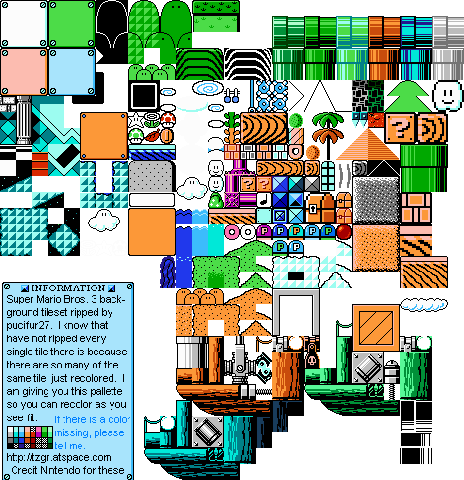
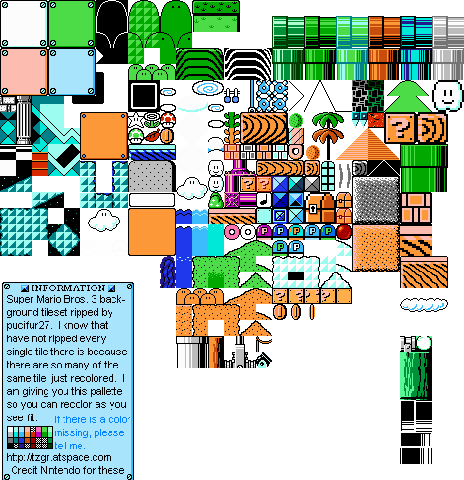
Make Coin for QuestionBlock.

Changed region(s): [[0.3017, 0.5938, 0.875, 1.0]]

diff --git a/SuperMarioBros3/Mario.cpp b/SuperMarioBros3/Mario.cpp
@@ -13,11 +13,18 @@
 
 void CMario::Update(DWORD dt, vector<LPGAMEOBJECT> *coObjects)
 {
-	DebugOut(L"%f %f \n", vx, ax);
+	//DebugOut(L"%f %f \n", vx, ax);
 	vy += ay * dt;
 	vx += ax * dt;
 
 	if (abs(vx) > abs(maxVx)) vx = maxVx;
+
+	// Stop Mario leaving the left-edge of the screen
+	if (x <= 8)
+	{
+		vx = 0;
+		x += 1;
+	}
 
 	// reset untouchable timer if untouchable time has passed
 	if (GetTickCount64() - untouchable_start > MARIO_UNTOUCHABLE_TIME) 
@@ -97,8 +104,17 @@ void CMario::OnCollisionWithGoomba(LPCOLLISIONEVENT e)
 
 void CMario::OnCollisionWithCoin(LPCOLLISIONEVENT e)
 {
-	e->obj->Delete();
-	coin++;
+	CCoin* objcoin = dynamic_cast<CCoin*>(e->obj);
+
+	if (objcoin->GetState() == COIN_STATE_NORMAL)
+	{
+		objcoin->Delete();
+		coin++;
+	}
+	else if (objcoin->GetState() == COIN_STATE_NORMAL + 1)
+	{
+
+	}
 }
 
 void CMario::OnCollisionWithPortal(LPCOLLISIONEVENT e)
@@ -233,18 +249,18 @@ int CMario::GetAniIdBig()
 			{
 				if (ax < 0)
 					aniId = ID_ANI_MARIO_BRACE_RIGHT;
-				else if (ax == MARIO_ACCEL_RUN_X)
+				else if (ax == MARIO_ACCEL_RUN_X && vx == maxVx)
 					aniId = ID_ANI_MARIO_RUNNING_RIGHT;
-				else if (ax == MARIO_ACCEL_WALK_X)
+				else if (ax == MARIO_ACCEL_WALK_X || vx != maxVx)
 					aniId = ID_ANI_MARIO_WALKING_RIGHT;
 			}
 			else // vx < 0
 			{
 				if (ax > 0)
 					aniId = ID_ANI_MARIO_BRACE_LEFT;
-				else if (ax == -MARIO_ACCEL_RUN_X)
+				else if (ax == -MARIO_ACCEL_RUN_X && abs(vx) == abs(maxVx))
 					aniId = ID_ANI_MARIO_RUNNING_LEFT;
-				else if (ax == -MARIO_ACCEL_WALK_X)
+				else if (ax == -MARIO_ACCEL_WALK_X || vx != -maxVx)
 					aniId = ID_ANI_MARIO_WALKING_LEFT;
 			}
 
@@ -269,7 +285,7 @@ void CMario::Render()
 
 	//RenderBoundingBox();
 	
-	DebugOutTitle(L"Coins: %d", coin);
+	//DebugOutTitle(L"Coins: %d", coin);
 }
 
 void CMario::SetState(int state)

diff --git a/SuperMarioBros3/PlayScene.cpp b/SuperMarioBros3/PlayScene.cpp
@@ -9,6 +9,7 @@
 #include "Portal.h"
 #include "Coin.h"
 #include "Platform.h"
+#include "QuestionBlock.h"
 
 #include "GameMaps.h"
 
@@ -123,11 +124,11 @@ void CPlayScene::_ParseSection_OBJECTS(string line)
 
 		DebugOut(L"[INFO] Player object has been created!\n");
 		break;
-	//case OBJECT_TYPE_TILES: obj = new Tile(x, y); break;
+	
 	case OBJECT_TYPE_GOOMBA: obj = new CGoomba(x,y); break;
 	case OBJECT_TYPE_BRICK: obj = new CBrick(x,y); break;
-	case OBJECT_TYPE_COIN: obj = new CCoin(x, y); break;
-
+	case OBJECT_TYPE_COIN: obj = new CCoin(x, y);
+	case OBJECT_TYPE_QUESTIONBLOCK: obj = new CQuestionBlock(x, y); break;
 	case OBJECT_TYPE_PLATFORM:
 	{
 
@@ -287,6 +288,8 @@ void CPlayScene::Update(DWORD dt)
 
 	for (size_t i = 0; i < objects.size(); i++)
 	{
+		/*if (dynamic_cast<CPlatform*>(objects[i]))
+			DebugOut(L"This is coin!!!!!!!!!!!!!!!!!!!! \n");*/
 		objects[i]->Update(dt, &coObjects);
 	}
 
@@ -294,7 +297,7 @@ void CPlayScene::Update(DWORD dt)
 	if (player == NULL) return; 
 
 	// Update camera to follow mario
-	float cx, cy, kx, ky;
+	float cx, cy;
 	player->GetPosition(cx, cy);
 	
 	

diff --git a/SuperMarioBros3/Coin.cpp b/SuperMarioBros3/Coin.cpp
@@ -1,9 +1,35 @@
 #include "Coin.h"
+#include "Debug.h"
+
+void CCoin::Update(DWORD dt, vector<LPGAMEOBJECT>* coObjects)
+{
+	vy += ay * dt;
+
+	if (state == COIN_STATE_NORMAL + 2)
+		y += vy;
+	
+	CGameObject::Update(dt, coObjects);
+	CCollision::GetInstance()->Process(this, dt, coObjects);
+}
+
+void CCoin::OnNoCollision(DWORD dt)
+{
+	//DebugOut(L"This is coin!!!!!!!!!!!!!!!!!!!! \n");
+	y += vy * dt;
+}
+
+//void CCoin::OnCollisionWith(LPCOLLISIONEVENT e)
+//{
+//
+//}
 
 void CCoin::Render()
 {
 	CAnimations* animations = CAnimations::GetInstance();
-	animations->Get(ID_ANI_COIN)->Render(x, y);
+	if (state == COIN_STATE_NORMAL)
+		animations->Get(ID_ANI_COIN)->Render(x, y);
+	else if (state == COIN_STATE_NORMAL + 1)
+		animations->Get(ID_ANI_COIN + 1)->Render(x, y);
 
 	//RenderBoundingBox();
 }
@@ -15,3 +41,4 @@ void CCoin::GetBoundingBox(float& l, float& t, float& r, float& b)
 	r = l + COIN_BBOX_WIDTH;
 	b = t + COIN_BBOX_HEIGHT;
 }
+

diff --git a/SuperMarioBros3/Coin.h b/SuperMarioBros3/Coin.h
@@ -5,16 +5,28 @@
 #include "Animations.h"
 
 #define ID_ANI_COIN 11000
-
+#define COIN_STATE_NORMAL	-1	// -1: normal, 0: in the block, 1: up, 2: down
 #define	COIN_WIDTH 10
 #define COIN_BBOX_WIDTH 10
 #define COIN_BBOX_HEIGHT 16
+#define COIN_GRAVITY	0.002f
+#define COIN_SPEED	0.004f
+#define COIN_MAX_HEIGHT	0.08f
 
 class CCoin : public CGameObject {
+protected: 
+	float ay = COIN_GRAVITY;
+
+	virtual void Update(DWORD dt, vector<LPGAMEOBJECT>* coObjects);
+	virtual void OnNoCollision(DWORD dt);
+	//virtual void OnCollisionWith(LPCOLLISIONEVENT e);
+
+	virtual int IsCollidable() { return 1; };
 public:
-	CCoin(float x, float y) : CGameObject(x, y) {}
+	CCoin(float x, float y) : CGameObject(x, y) { state = COIN_STATE_NORMAL; }
 	void Render();
 	void Update(DWORD dt) {}
 	void GetBoundingBox(float& l, float& t, float& r, float& b);
 	int IsBlocking() { return 0; }
+	void SetState(int st) { this->state = st; }
 };

diff --git a/SuperMarioBros3/QuestionBlock.h b/SuperMarioBros3/QuestionBlock.h
@@ -1,0 +1,24 @@
+#pragma once
+
+#include "GameObject.h"
+#include "Animation.h"
+#include "Animations.h"
+
+#define ID_ANI_QUESTIONBLOCK 100000
+#define ID_ANI_QUESTIONBLOCK_STOP 100001
+
+#define STATE_QUESTIONBLOCK_ACTIVE	1
+
+#define QUESTIONBLOCK_WIDTH 16
+#define QUESTIONBLOCK_BBOX_WIDTH 16
+#define QUESTIONBLOCK_BBOX_HEIGHT 16
+
+class CQuestionBlock : public CGameObject {
+public:
+	CQuestionBlock(float x, float y, int state = STATE_QUESTIONBLOCK_ACTIVE) : CGameObject(x, y) {}
+	void Render();
+	void Update(DWORD dt) {}
+	void GetBoundingBox(float& l, float& t, float& r, float& b);
+	
+	virtual void SetState(int st);
+};

diff --git a/SuperMarioBros3/QuestionBlock.cpp b/SuperMarioBros3/QuestionBlock.cpp
@@ -1,0 +1,23 @@
+#include "QuestionBlock.h"
+
+void CQuestionBlock::Render()
+{
+	CAnimations* animations = CAnimations::GetInstance();
+	if (state == STATE_QUESTIONBLOCK_ACTIVE)
+		animations->Get(ID_ANI_QUESTIONBLOCK)->Render(x, y);
+	else 
+		animations->Get(ID_ANI_QUESTIONBLOCK_STOP)->Render(x, y);
+}
+
+void CQuestionBlock::GetBoundingBox(float& l, float& t, float& r, float& b)
+{
+	l = x - QUESTIONBLOCK_BBOX_WIDTH / 2;
+	t = y - QUESTIONBLOCK_BBOX_HEIGHT / 2;
+	r = l + QUESTIONBLOCK_BBOX_WIDTH;
+	b = t + QUESTIONBLOCK_BBOX_HEIGHT;
+}
+
+void CQuestionBlock::SetState(int st)
+{
+	state = st;
+}

diff --git a/SuperMarioBros3/AssetIDs.h b/SuperMarioBros3/AssetIDs.h
@@ -15,7 +15,7 @@
 #define OBJECT_TYPE_KOOPAS	3
 #define OBJECT_TYPE_COIN 4
 #define OBJECT_TYPE_PLATFORM 5
-#define OBJECT_TYPE_GHOSTBLOCK 6
+#define OBJECT_TYPE_QUESTIONBLOCK	6
 
 #define OBJECT_TYPE_TILES 10
 
@@ -95,3 +95,4 @@
 #define ID_SPRITE_CLOUD_END (ID_SPRITE_CLOUD+3000)
 
 #define ID_TILE_TRANSPARENT 60000
+#define ID_SPRITE_QUESTIONBLOCK 70000

diff --git a/SuperMarioBros3/Mario.h b/SuperMarioBros3/Mario.h
@@ -12,7 +12,7 @@
 #define MARIO_ACCEL_WALK_X	0.0005f
 #define MARIO_ACCEL_RUN_X	0.0002f
 
-#define MARIO_JUMP_SPEED_Y		0.6f
+#define MARIO_JUMP_SPEED_Y		0.5f
 #define MARIO_JUMP_RUN_SPEED_Y	0.6f
 
 #define MARIO_GRAVITY			0.002f
